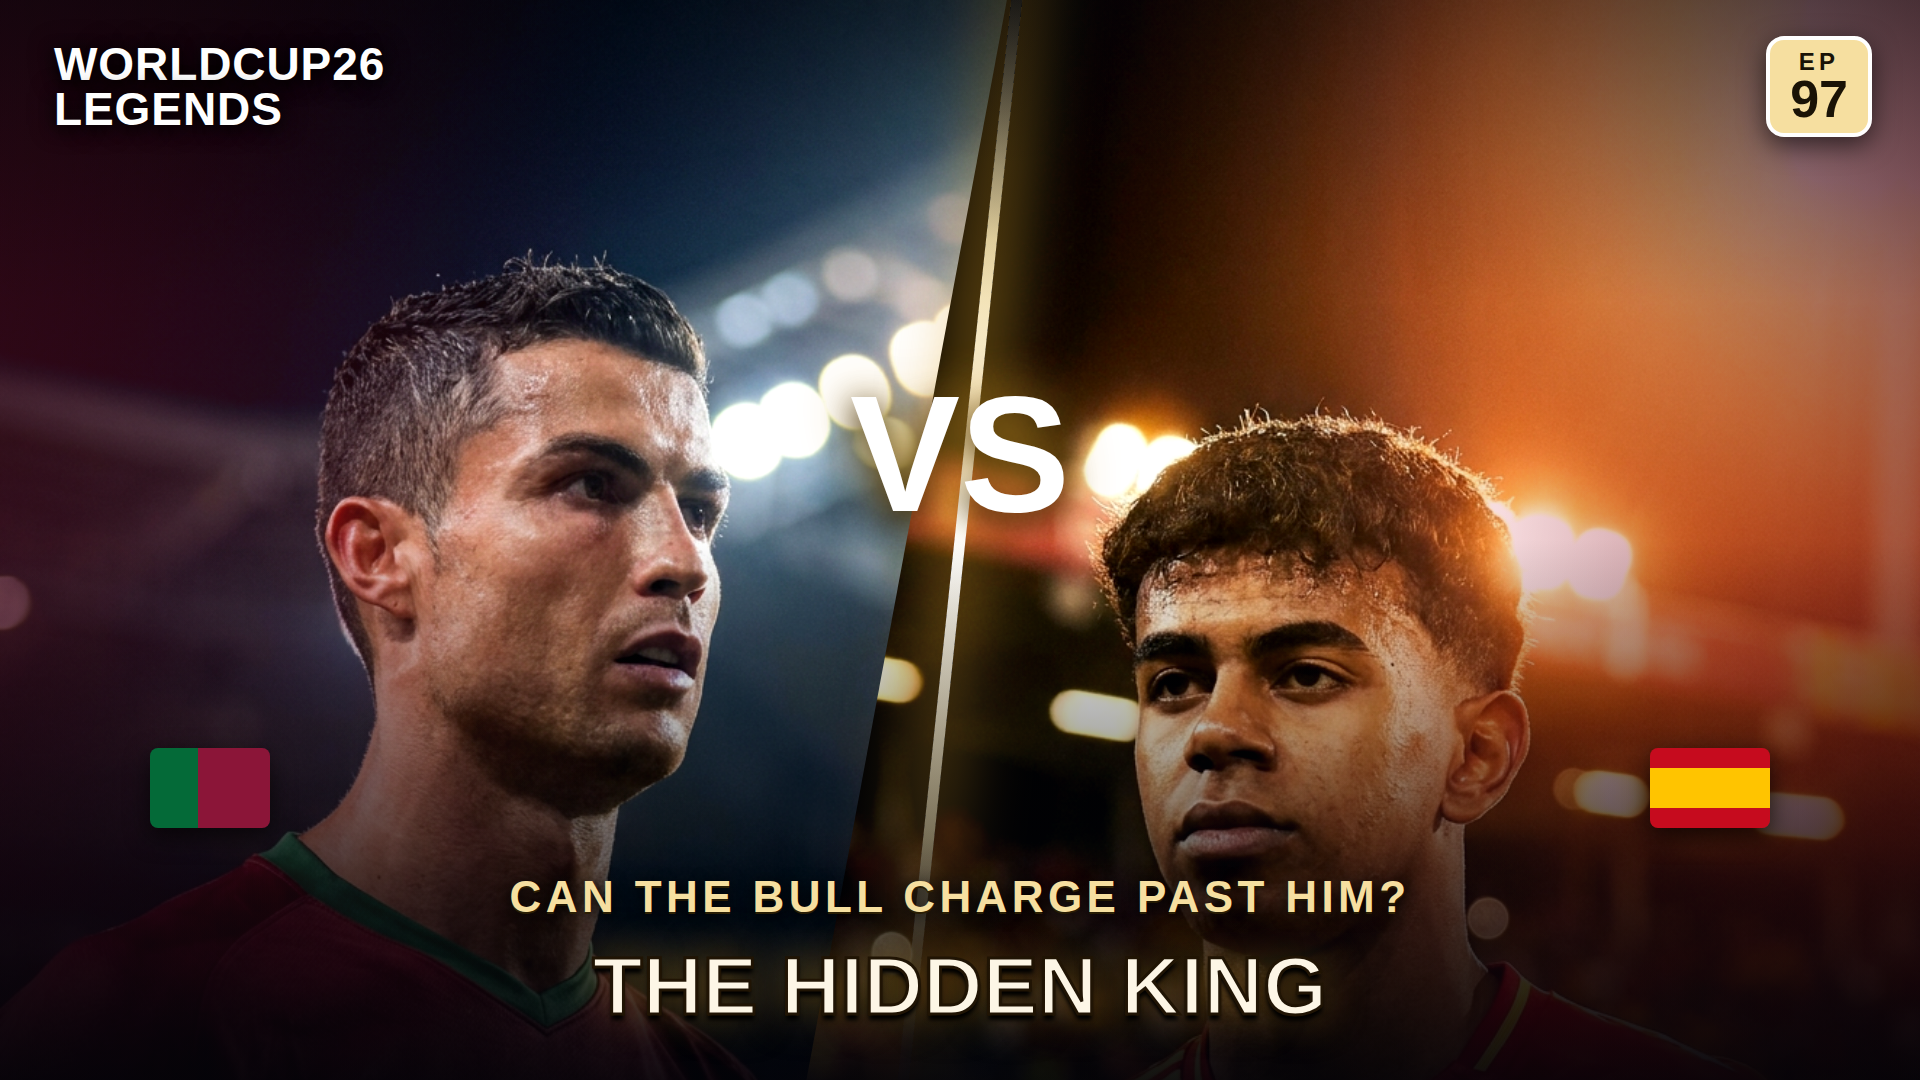
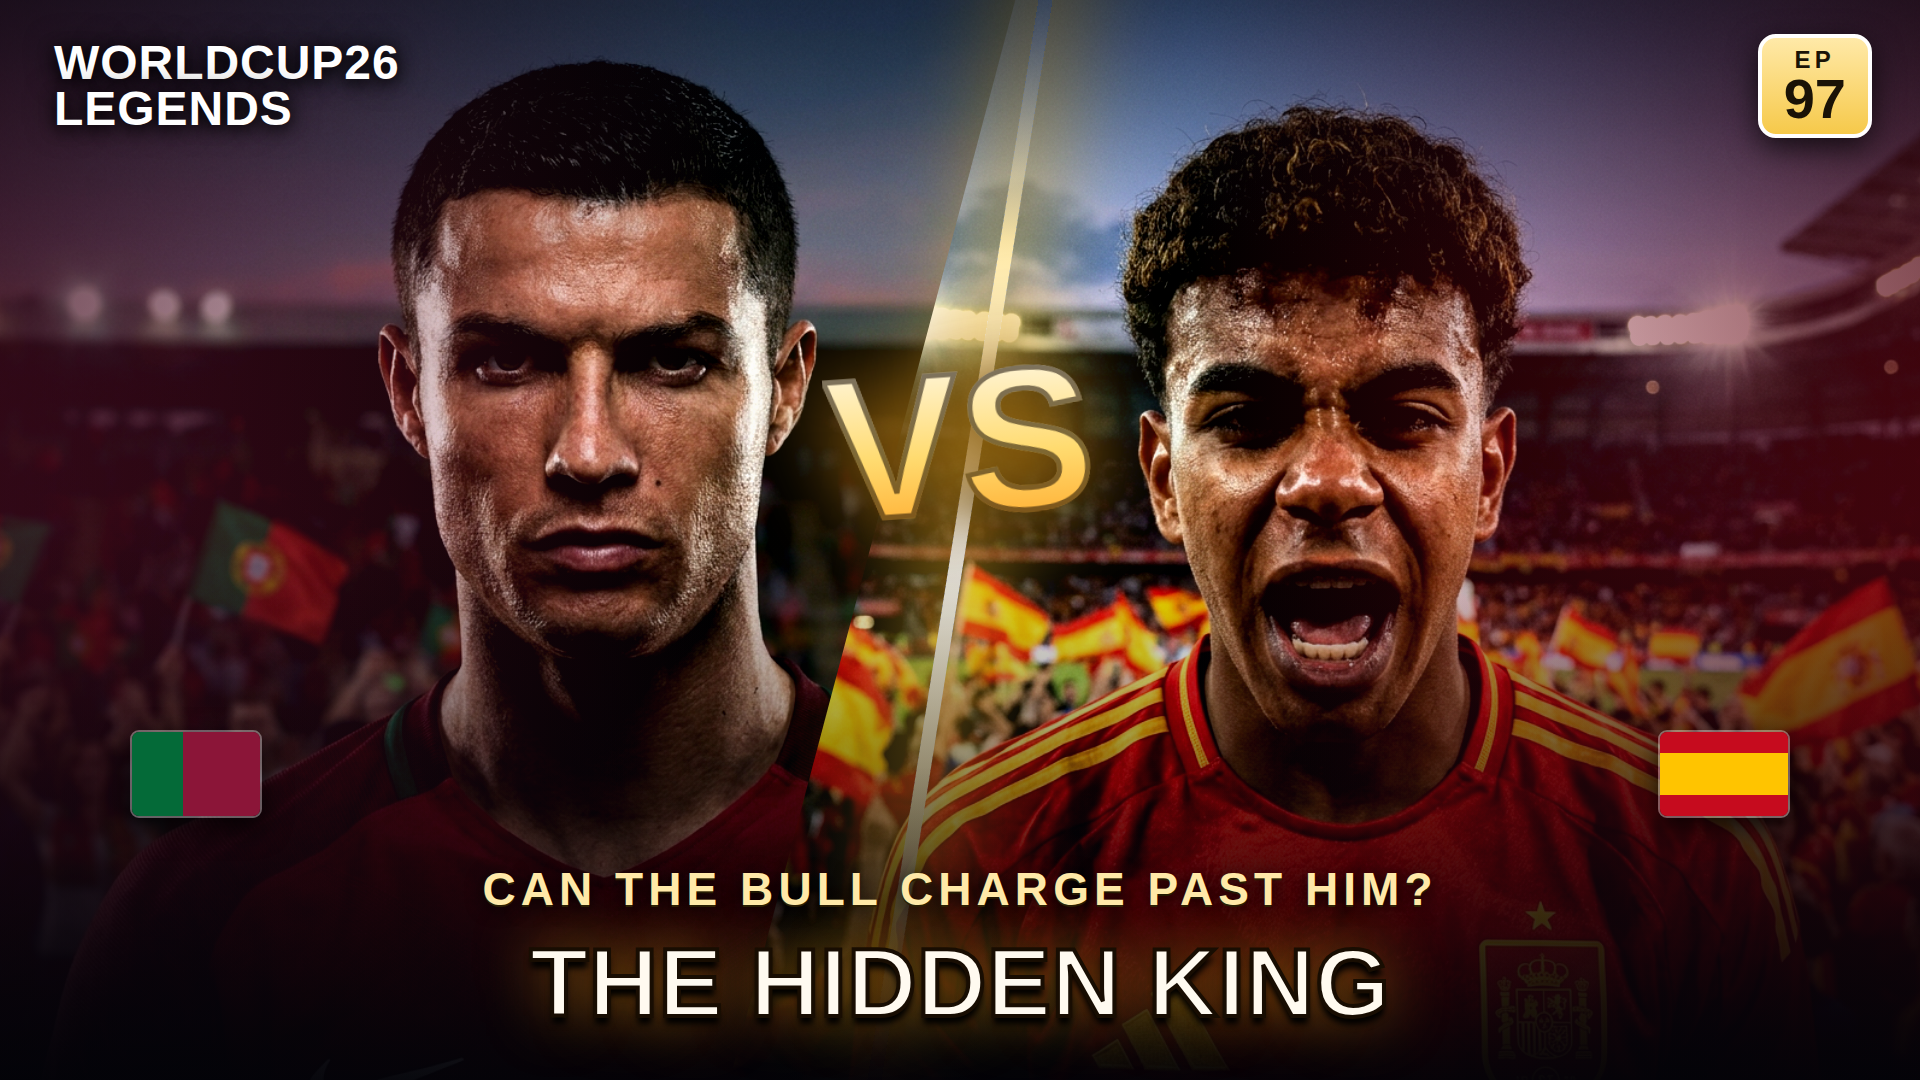
Ep97: upgrade thumbnail to dramatic close-up hero shots
Same upgrade applied to Ep96 — replaced the two player photos with
tighter, higher-contrast close-ups (intense stare / roaring shout,
hero lighting) and the punchier gold-gradient VS/title treatment.
Same players (Ronaldo, Yamal), same title/tag copy — visual upgrade only.

Claude-Session: https://claude.ai/code/session_01KEnVYMHcmw8DWwqLh5pqf1

diff --git a/marketing/match-videos/match97-portugal-vs-spain/thumbnail.html b/marketing/match-videos/match97-portugal-vs-spain/thumbnail.html
@@ -5,26 +5,28 @@
   * { margin:0; padding:0; box-sizing:border-box; }
   html,body { width:1920px; height:1080px; overflow:hidden; background:#05060c; font-family:'Inter','Arial Black',sans-serif; }
   #t { position:relative; width:1920px; height:1080px; overflow:hidden; }
-  .half { position:absolute; top:0; height:100%; width:58%; background-size:cover; filter:saturate(1.12) contrast(1.08); }
-  #L { left:0; background-image:url('thumb_ronaldo.png'); background-position:44% 18%; clip-path:polygon(0 0, 100% 0, 82% 100%, 0 100%); }
-  #R { right:0; background-image:url('thumb_yamal.png'); background-position:50% 18%; clip-path:polygon(18% 0, 100% 0, 100% 100%, 0 100%); }
-  .glow { position:absolute; top:0; height:100%; width:42%; }
-  #gL { left:0; background:linear-gradient(90deg, rgba(139,21,56,0.48), transparent 78%); }
-  #gR { right:0; background:linear-gradient(270deg, rgba(198,11,30,0.44), transparent 78%); }
-  #seam { position:absolute; top:-6%; left:50%; width:11px; height:112%; transform:translateX(-50%) rotate(6deg);
-    background:linear-gradient(180deg, transparent, #f0dca6, #fff, #f0dca6, transparent); box-shadow:0 0 65px 20px rgba(224,162,38,0.55); z-index:5; }
+  .half { position:absolute; top:0; height:100%; width:62%; background-size:cover; filter:saturate(1.25) contrast(1.18) brightness(1.03); }
+  #L { left:0; background-image:url('thumb_ronaldo.png'); background-position:50% 20%; clip-path:polygon(0 0, 100% 0, 76% 100%, 0 100%); }
+  #R { right:0; background-image:url('thumb_yamal.png'); background-position:50% 20%; clip-path:polygon(24% 0, 100% 0, 100% 100%, 0 100%); }
+  .glow { position:absolute; top:0; height:100%; width:46%; }
+  #gL { left:0; background:linear-gradient(90deg, rgba(139,21,56,0.55), transparent 82%); }
+  #gR { right:0; background:linear-gradient(270deg, rgba(198,11,30,0.5), transparent 82%); }
+  #seam { position:absolute; top:-6%; left:50%; width:14px; height:112%; transform:translateX(-50%) rotate(9deg);
+    background:linear-gradient(180deg, transparent, #ffe9a8, #fff, #ffe9a8, transparent); box-shadow:0 0 90px 30px rgba(255,196,40,0.65); z-index:5; }
   #vig { position:absolute; inset:0; z-index:6;
-    background:radial-gradient(ellipse at 50% 46%, transparent 40%, rgba(2,3,8,0.6) 100%),
-      linear-gradient(180deg, rgba(2,3,8,0.34) 0%, transparent 28%, transparent 50%, rgba(2,3,8,0.9) 100%); }
-  #vs { position:absolute; left:50%; top:42%; transform:translate(-50%,-50%); z-index:9; font-weight:900; font-size:165px; color:#fff; text-shadow:0 0 52px rgba(224,162,38,0.9), 0 8px 30px #000; }
-  #kick { position:absolute; top:42px; left:54px; z-index:9; font-weight:900; font-size:46px; line-height:0.98; letter-spacing:0.02em; color:#fff; text-shadow:0 3px 16px #000, 0 0 26px rgba(0,0,0,0.8); }
-  #ep { position:absolute; top:36px; right:48px; z-index:9; text-align:center; font-weight:900; color:#1a1306; background:#f6dfa0; border:4px solid #fff; border-radius:18px; padding:8px 20px 10px; box-shadow:0 8px 26px rgba(0,0,0,0.6); }
-  #ep .l { font-size:24px; letter-spacing:0.18em; display:block; } #ep .n { font-size:52px; line-height:0.9; display:block; }
-  #tag { position:absolute; left:0; right:0; bottom:158px; text-align:center; z-index:9; font-weight:800; font-size:44px; letter-spacing:0.10em; color:#f6dfa0; text-shadow:0 3px 16px #000, 0 2px 0 #3a2a06; }
-  #title { position:absolute; left:0; right:0; bottom:54px; text-align:center; z-index:9; font-weight:900; font-size:82px; line-height:0.96; color:#fdf6e6; letter-spacing:0.005em;
-    text-shadow:0 6px 4px #000, 0 0 44px rgba(224,162,38,0.55), 0 2px 0 #3a2a06; -webkit-text-stroke:3px #201404; }
-  .badge { position:absolute; bottom:252px; z-index:9; width:120px; height:80px; border-radius:8px; box-shadow:0 8px 24px rgba(0,0,0,0.7); overflow:hidden; }
-  #fL { left:150px; } #fR { right:150px; }
+    background:radial-gradient(ellipse at 50% 44%, transparent 34%, rgba(2,3,8,0.68) 100%),
+      linear-gradient(180deg, rgba(2,3,8,0.4) 0%, transparent 24%, transparent 48%, rgba(2,3,8,0.94) 100%); }
+  #vs { position:absolute; left:50%; top:41%; transform:translate(-50%,-50%) rotate(-4deg); z-index:9; font-weight:900; font-size:200px;
+    background:linear-gradient(180deg, #fff 0%, #ffdb70 55%, #ff9d1a 100%); -webkit-background-clip:text; background-clip:text; color:transparent;
+    text-shadow:none; filter:drop-shadow(0 0 46px rgba(255,170,20,0.95)) drop-shadow(0 10px 22px rgba(0,0,0,0.9)); -webkit-text-stroke:5px rgba(20,10,0,0.55); }
+  #kick { position:absolute; top:40px; left:54px; z-index:9; font-weight:900; font-size:48px; line-height:0.96; letter-spacing:0.02em; color:#fff; text-shadow:0 3px 16px #000, 0 0 30px rgba(0,0,0,0.9); }
+  #ep { position:absolute; top:34px; right:48px; z-index:9; text-align:center; font-weight:900; color:#1a1306; background:linear-gradient(180deg,#ffe9a8,#f6c94a); border:4px solid #fff; border-radius:18px; padding:8px 22px 10px; box-shadow:0 10px 30px rgba(0,0,0,0.7); }
+  #ep .l { font-size:24px; letter-spacing:0.18em; display:block; } #ep .n { font-size:56px; line-height:0.9; display:block; }
+  #tag { position:absolute; left:0; right:0; bottom:164px; text-align:center; z-index:9; font-weight:800; font-size:46px; letter-spacing:0.11em; color:#ffe9a8; text-shadow:0 3px 18px #000, 0 2px 0 #3a2a06; }
+  #title { position:absolute; left:0; right:0; bottom:52px; text-align:center; z-index:9; font-weight:900; font-size:96px; line-height:0.95; color:#fffaf0; letter-spacing:0.005em;
+    text-shadow:0 8px 6px #000, 0 0 60px rgba(255,170,20,0.7), 0 2px 0 #3a2a06; -webkit-text-stroke:4px #180d02; }
+  .badge { position:absolute; bottom:262px; z-index:9; width:132px; height:88px; border-radius:9px; box-shadow:0 10px 28px rgba(0,0,0,0.8); overflow:hidden; border:2px solid rgba(255,255,255,0.35); }
+  #fL { left:130px; } #fR { right:130px; }
 </style></head><body><div id="t">
   <div class="half" id="L"></div><div class="half" id="R"></div>
   <div class="glow" id="gL"></div><div class="glow" id="gR"></div>
